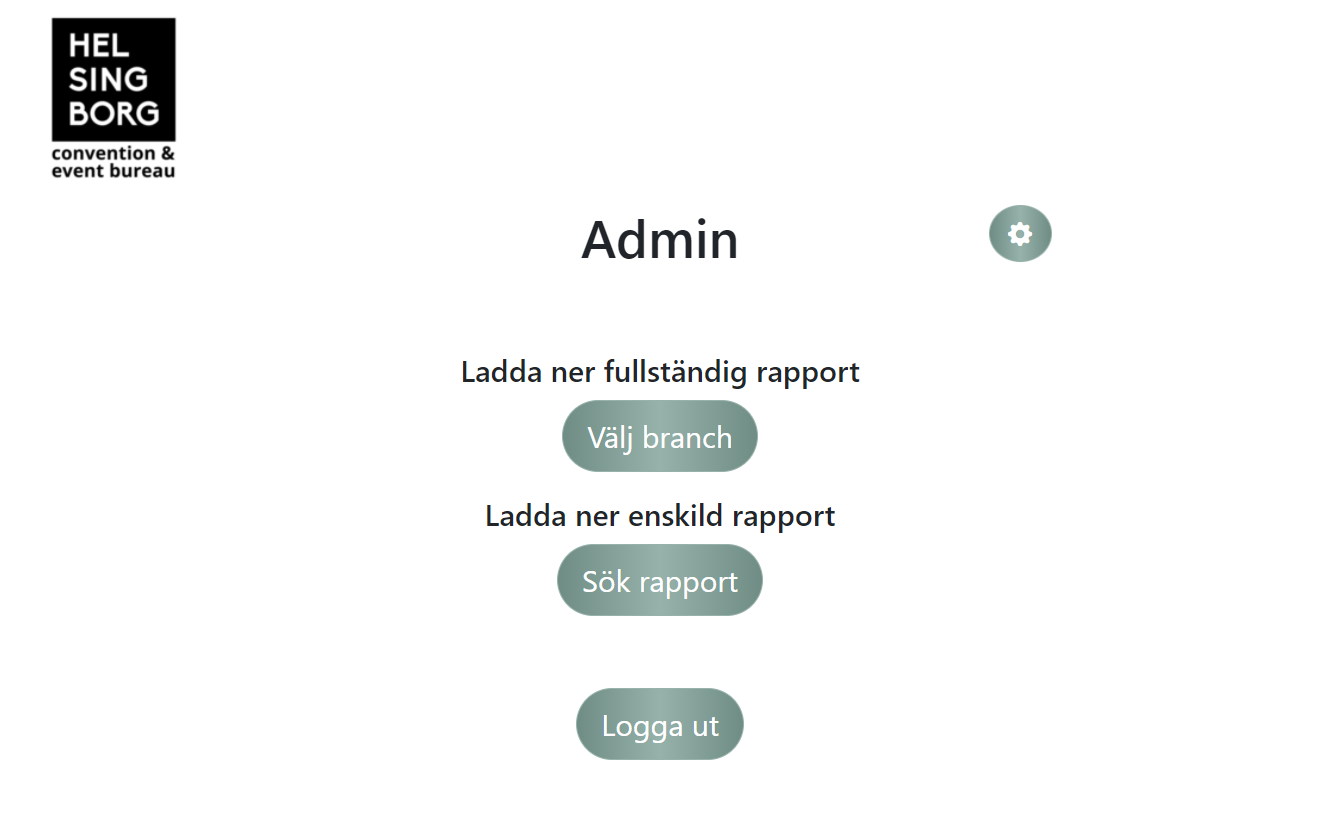
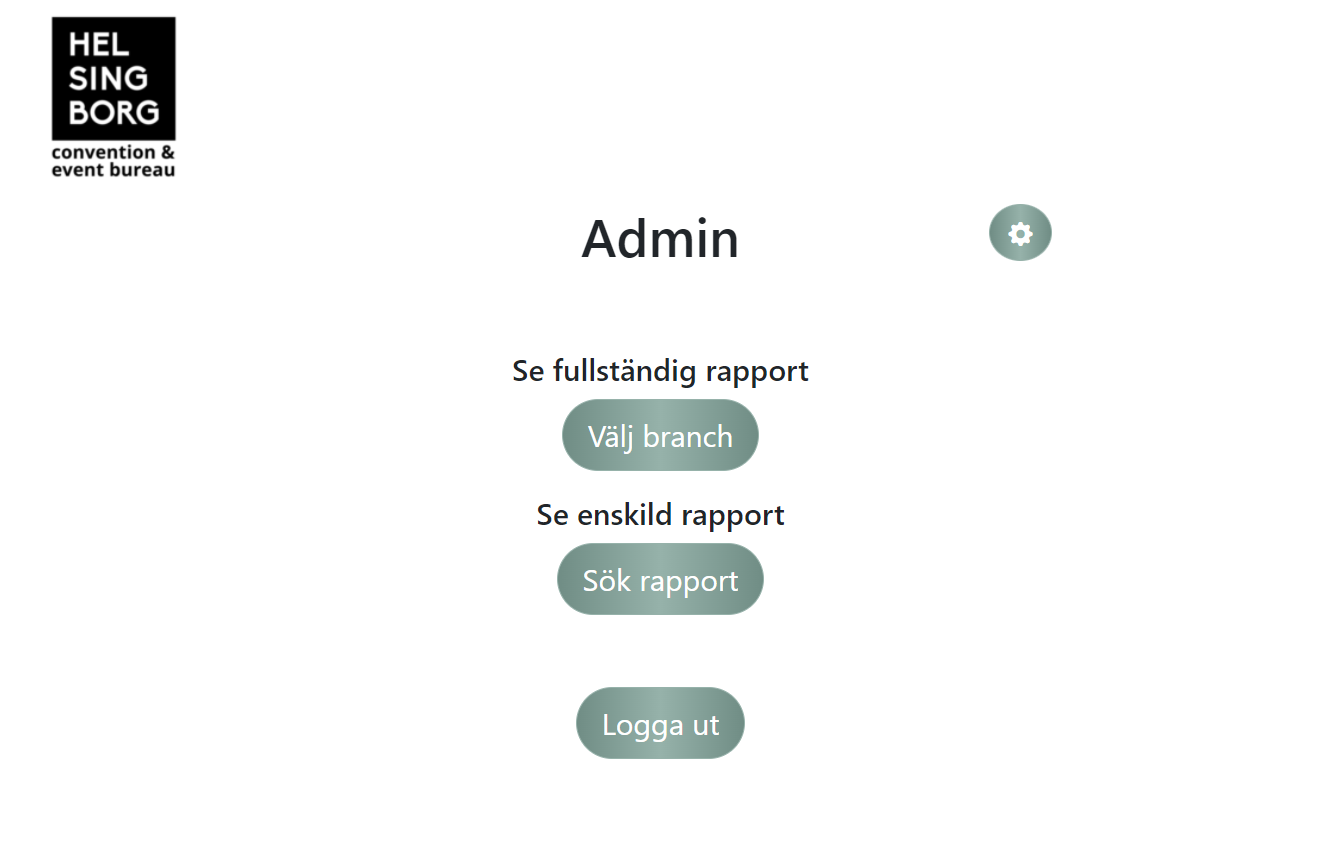
updated admin_index

diff --git a/Website/templates/Admin-html/admin-index.html b/Website/templates/Admin-html/admin-index.html
@@ -66,7 +66,7 @@
 <section class="container-fluid text-center">
   <form method="post" action = "">
   <div class=" container mt-5 dropdown text-center">
-    <p class="h5 mb-2">Ladda ner fullständig rapport</p>
+    <p class="h5 mb-2">Se fullständig rapport</p>
     
     <button class="btn btn-secondary rounded-pill  btn-lg col-lg-3 "  data-bs-toggle="dropdown">
        Välj branch
@@ -81,7 +81,7 @@
 </div>
 </form>
     <div class="container mt-3 ">
-        <p class="h5 mb-2">Ladda ner enskild rapport</p>
+        <p class="h5 mb-2">Se enskild rapport</p>
         <button class="btn btn-secondary btn-lg col-lg-3 rounded-pill" data-bs-toggle="modal" data-bs-target="#search-modal"> Sök rapport </button>
     </div>
 
